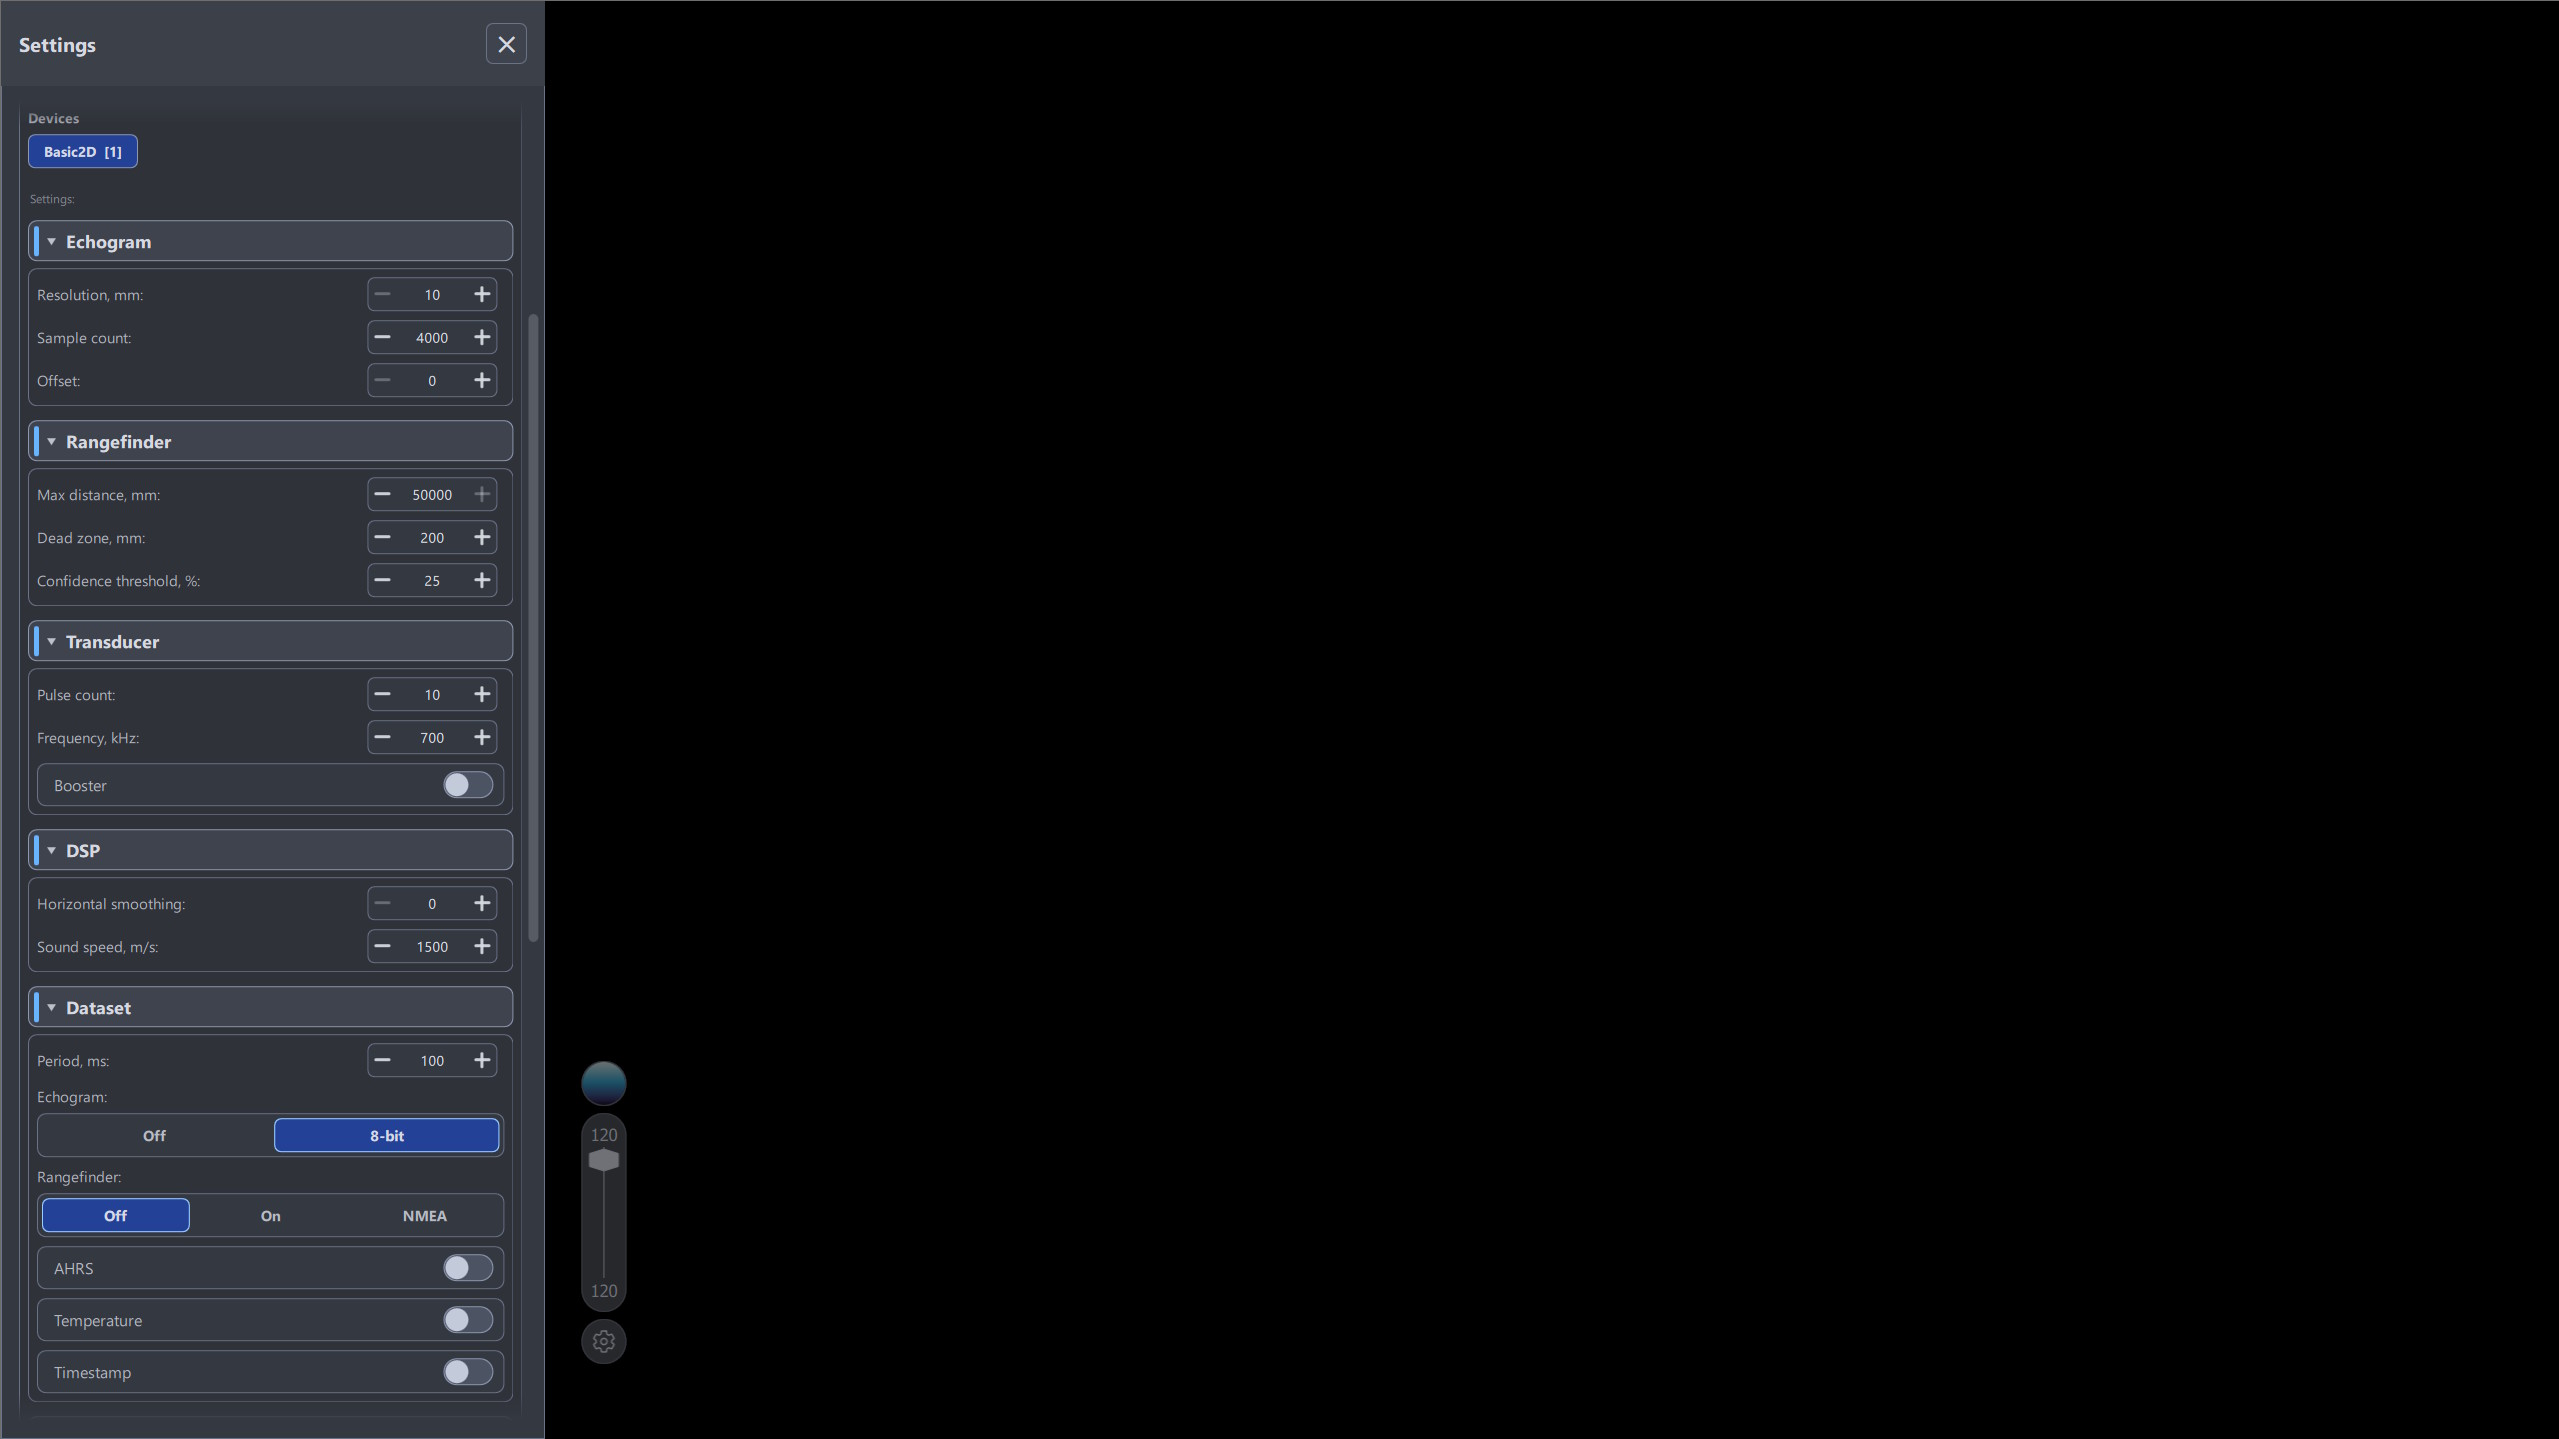
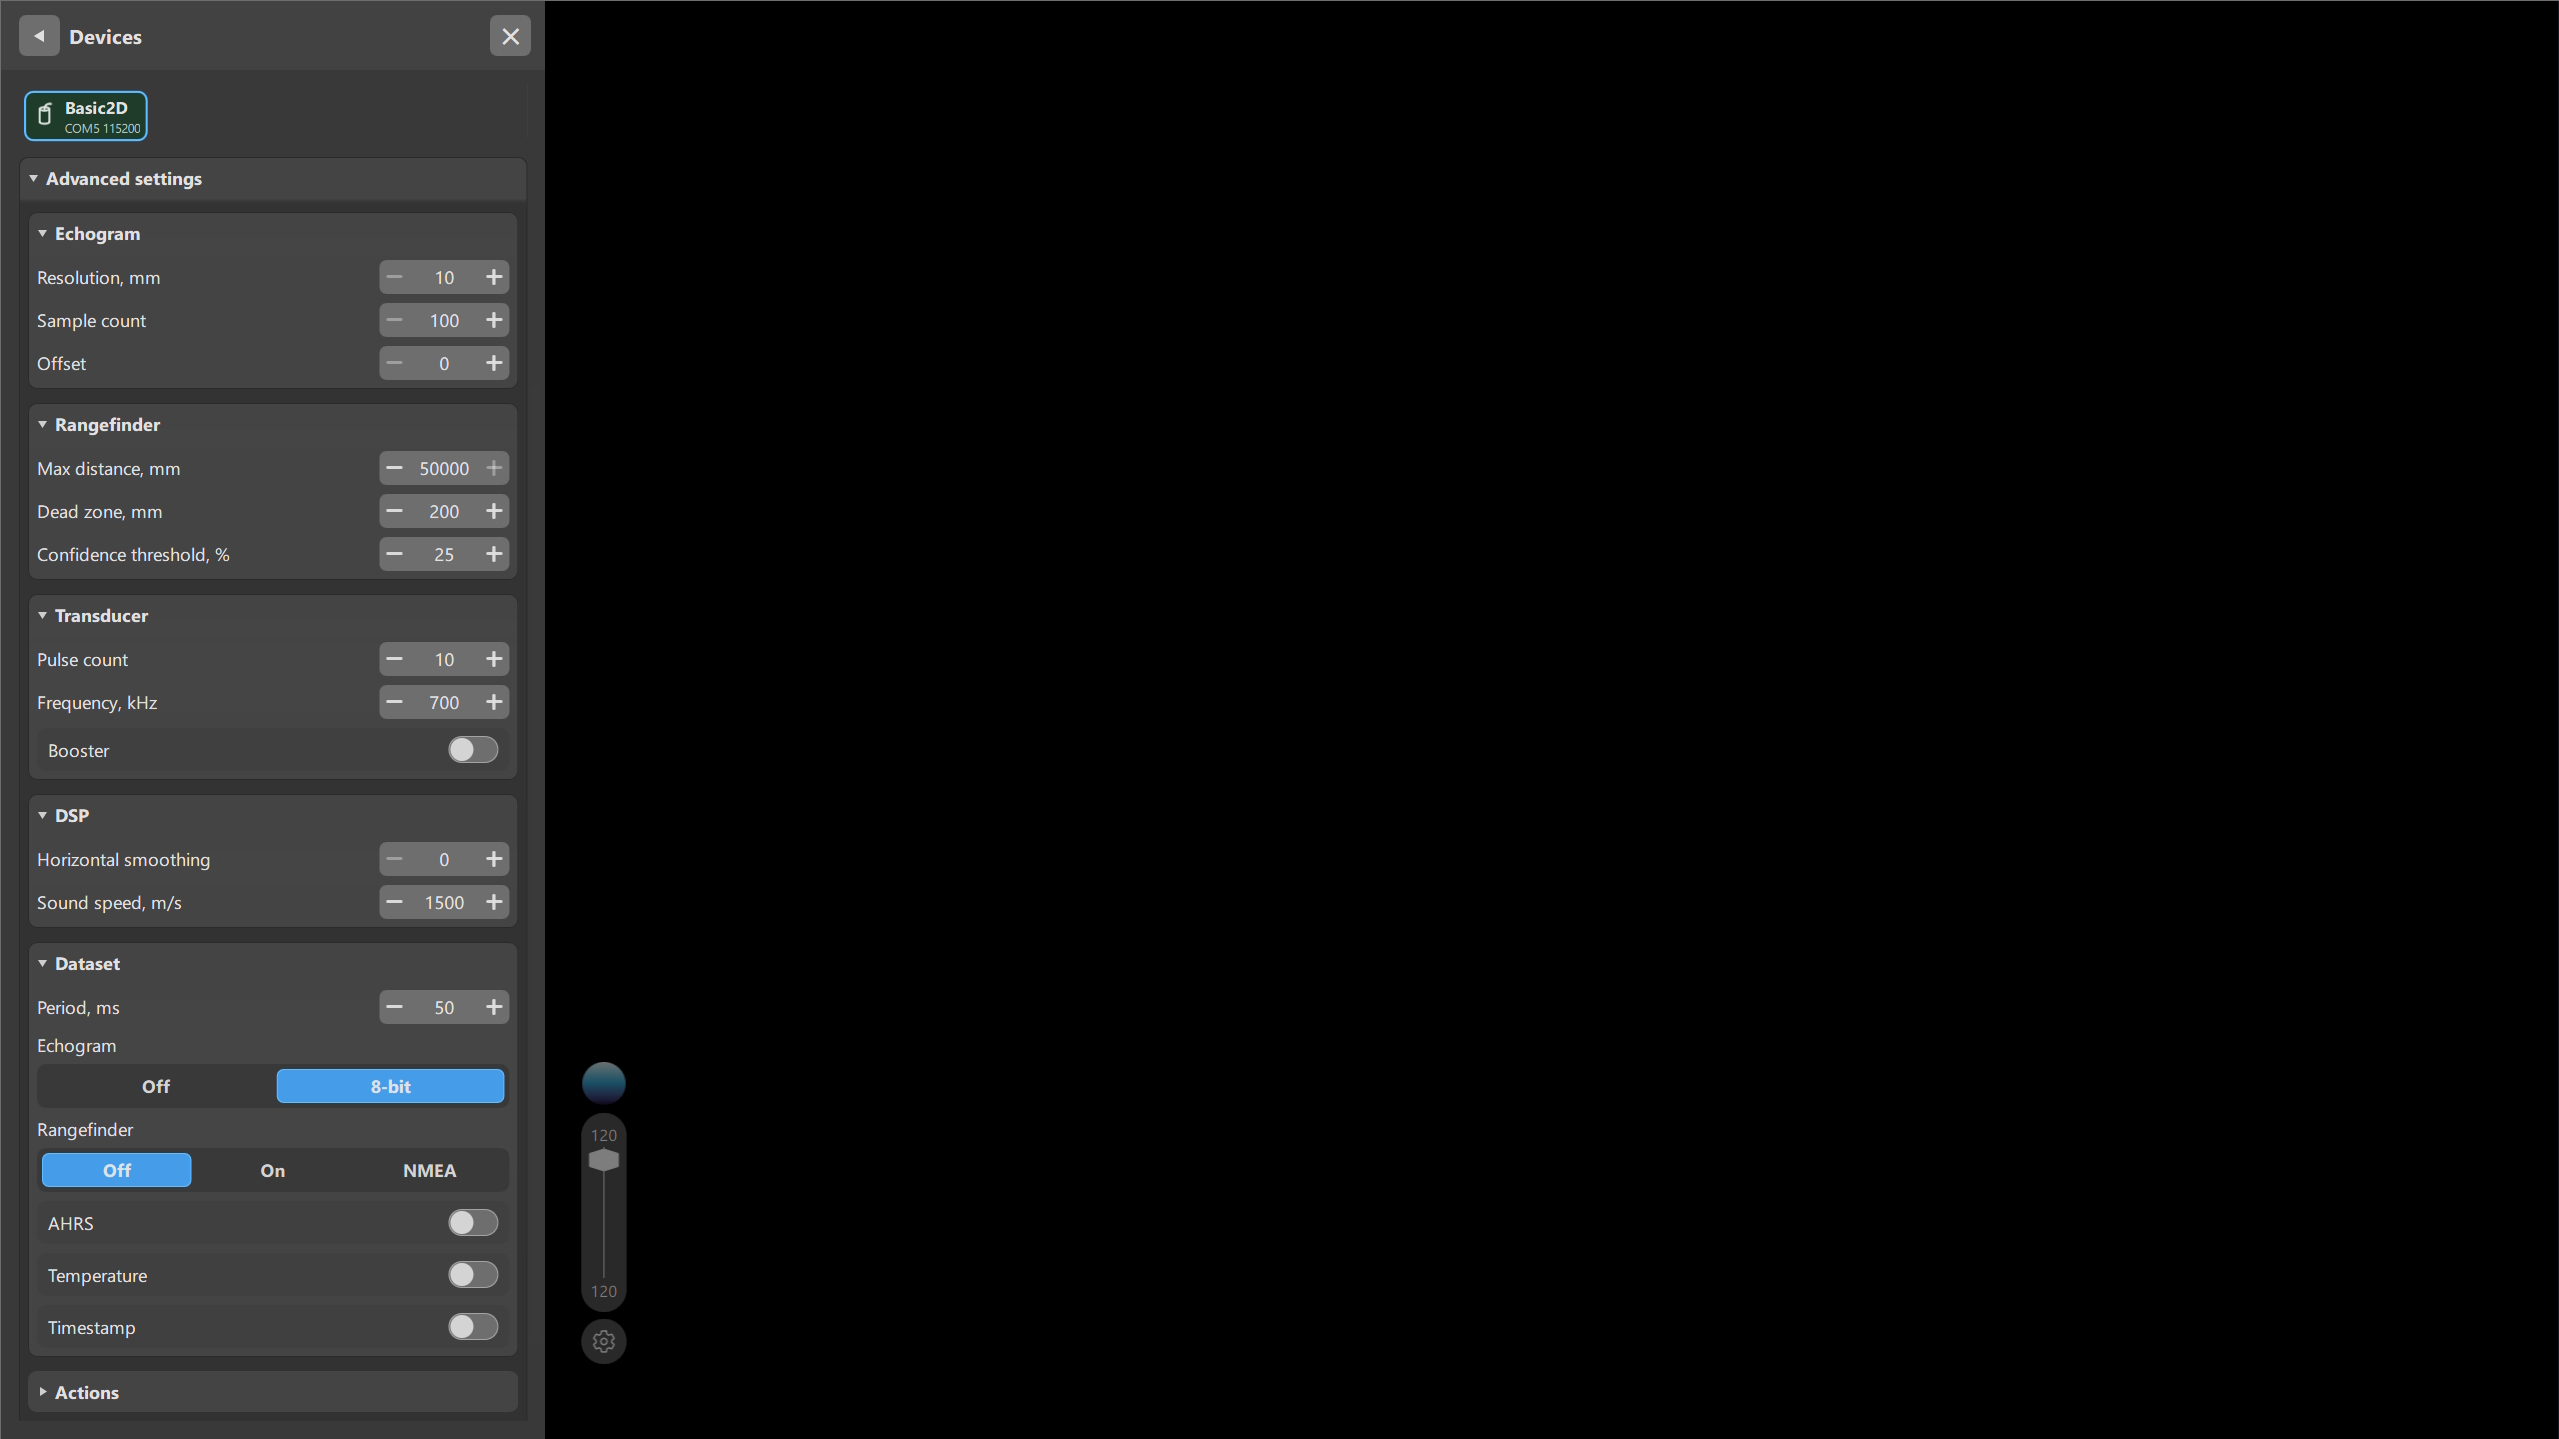
upd README.md

Changed region(s): [[0.0, 0.0, 0.2161, 0.9785], [0.1852, 0.0, 0.2161, 0.0612]]

diff --git a/README.md b/README.md
@@ -61,12 +61,15 @@ Supported versions: Windows 10 (1809 or later), 11.
 - Portable: Download .zip. Extract and run "KoggerApp.exe".  
 - Installer: Download and launch the installer (Optionally associates .klf files with the app during setup).
 
-🤖 Android (armeabi-v7a, arm64-v8a):  
+🤖 Android (universal APK: armeabi-v7a + arm64-v8a):  
 Supported versions: Android 9.0 (Pie, level 28) and above.  
-Download and install the .apk file. You may need to enable "Install from unknown sources" in your device settings.
+A single **universal .apk** carries both ABIs, so there is no per-device variant to choose — download that one file and install it. You may need to enable "Install from unknown sources" in your device settings.
 
-🐧 Linux (Ubuntu x86_64):  
-Supported distributions: Ubuntu 22.04, 24.04 and compatible systems.  
+🐧 Linux (x86_64, AppImage):  
+The AppImage bundles Qt and the application's own libraries — it runs on any modern x86_64 distribution with **glibc 2.39 or newer**. The AppImage is built on Ubuntu 24.04, and glibc is never bundled into an AppImage; check yours with `ldd --version`.
+
+Runs on: Ubuntu 24.04+, Linux Mint 22+, Pop!_OS 24.04+, elementary OS 8+, Debian 13+, Fedora 40+, RHEL / Rocky / AlmaLinux 10+, Arch / Manjaro / EndeavourOS and openSUSE Tumbleweed.
+
 Download the .AppImage file and make it executable:
 ```bash
 chmod +x KoggerApp_version_linux_x86_64.AppImage
@@ -100,9 +103,16 @@ Steps:
 - Build > Build Project
 - Install the generated `.apk` on a device
 
-🐧 Linux (Ubuntu x86_64)  
+🐧 Linux (x86_64)  
 Compiler: Clang 18.1.3  
 Qt version: Qt 6.8.3 (gcc_64)  
+
+Build dependencies besides Qt itself:
+- Debian / Ubuntu: `sudo apt install build-essential cmake ninja-build libgl1-mesa-dev`
+- Fedora / RHEL: `sudo dnf install gcc-c++ cmake ninja-build mesa-libGL-devel`
+- Arch / Manjaro: `sudo pacman -S base-devel cmake ninja mesa`
+- openSUSE: `sudo zypper install gcc-c++ cmake ninja Mesa-libGL-devel`
+
 Clone and build (set `CMAKE_PREFIX_PATH` to your Qt installation):
 ```bash
 git clone https://github.com/koggertech/KoggerApp.git
